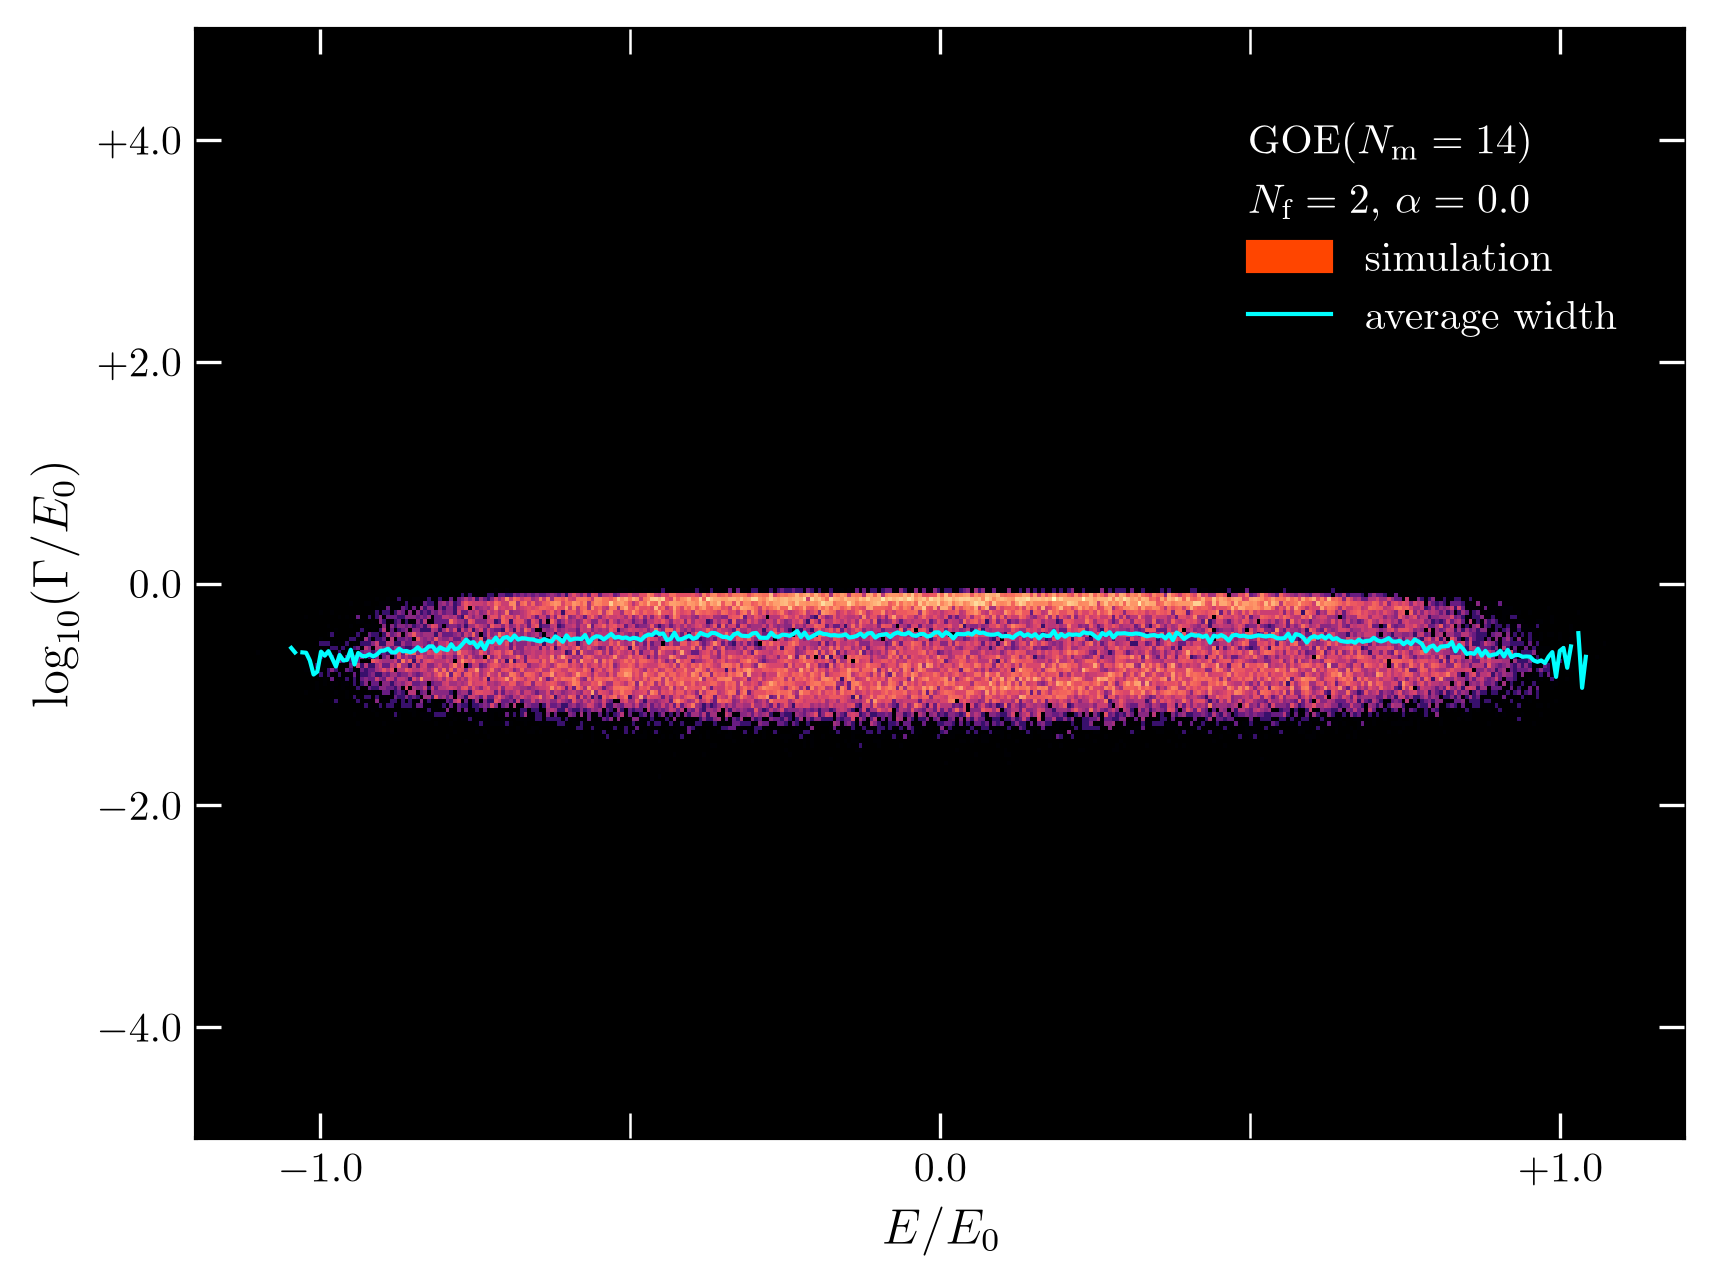
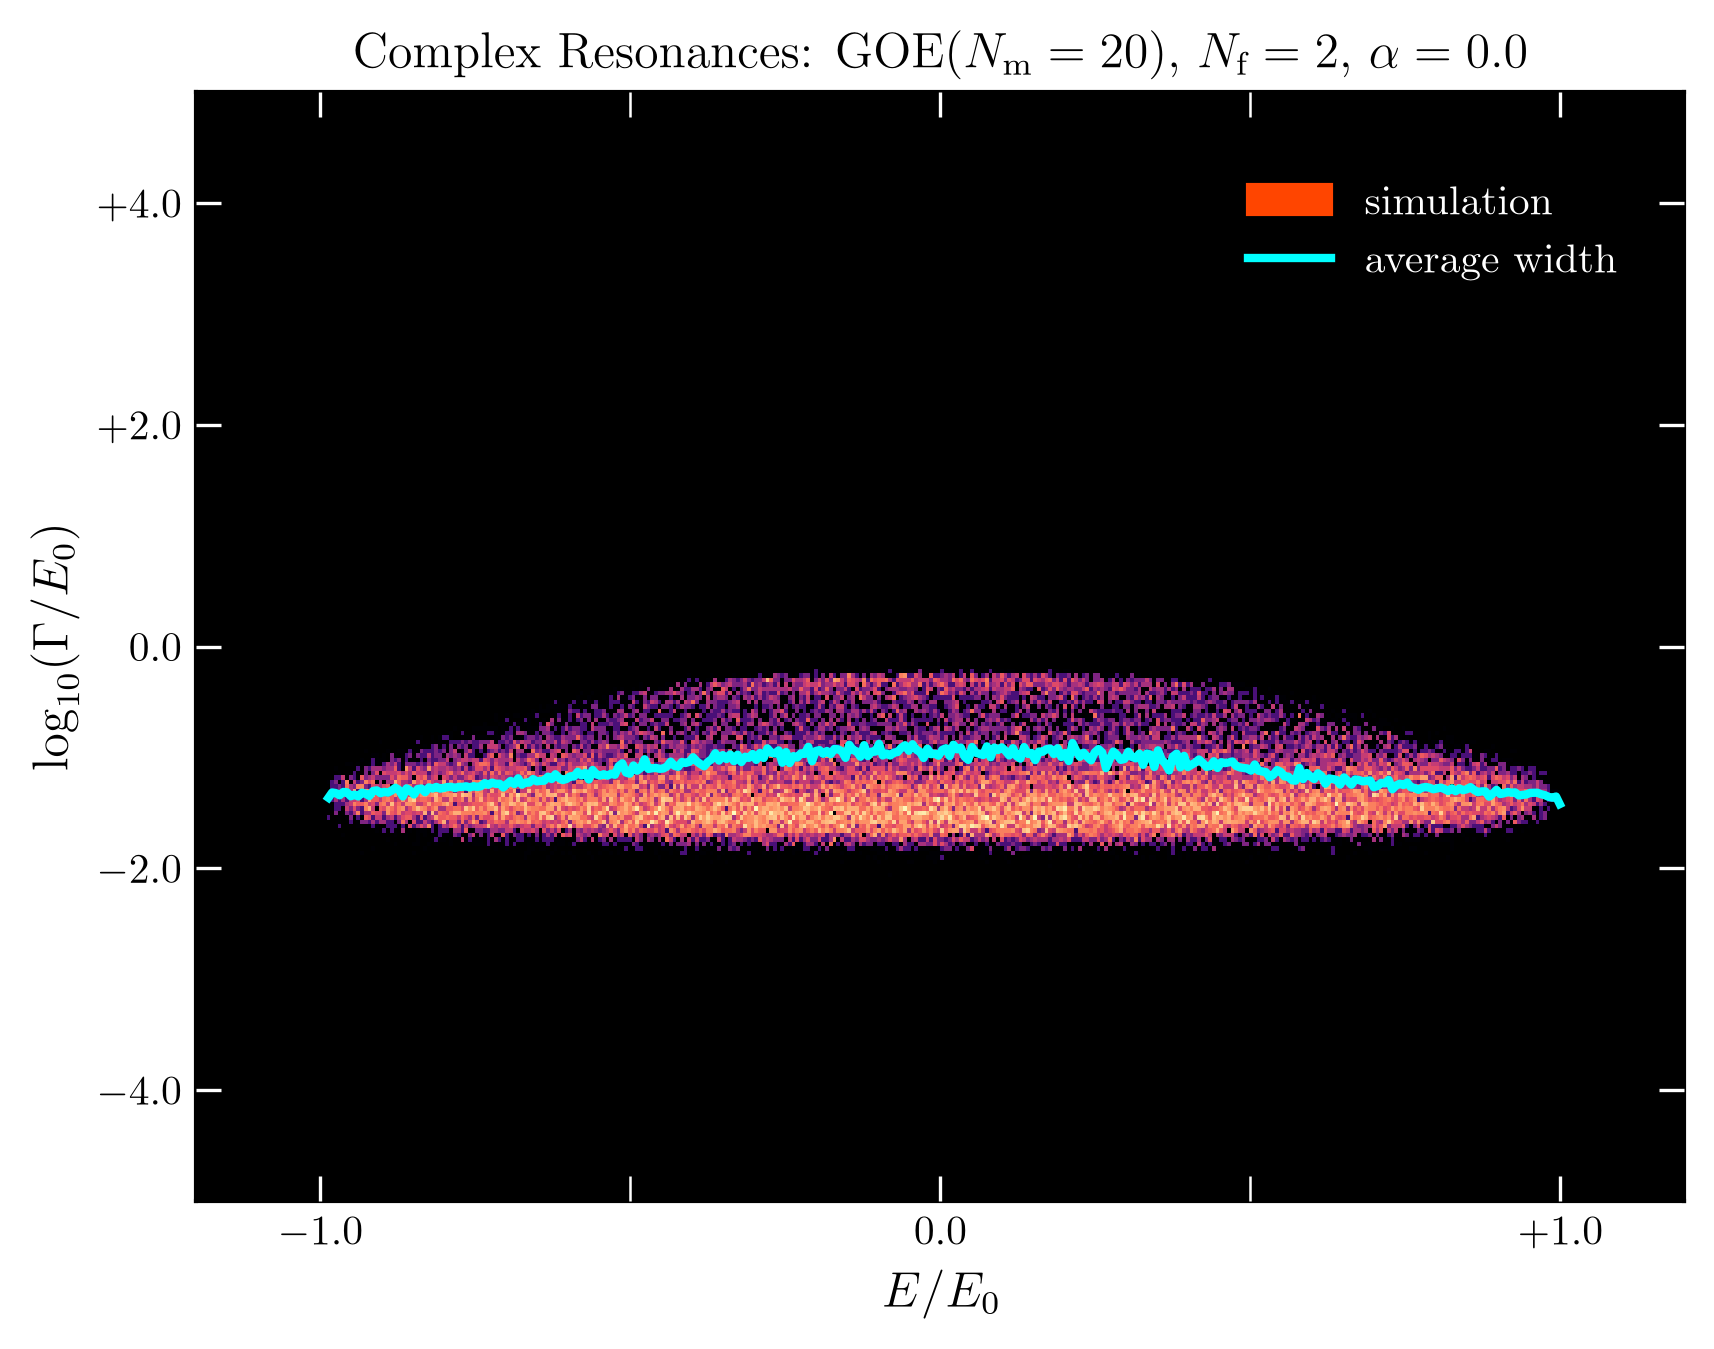
Update README with new simulation parameters and add time-delay spectral form factor overlay image

diff --git a/README.md b/README.md
@@ -149,23 +149,32 @@ describes ideal transmission.
 The following figures were generated by the current simulation and plotting
 code.
 
-![GOE nearest-neighbor spacing histogram after degree-six averaged unfolding, compared with the GOE Wigner surmise](assets/readme/goe-level-spacings.png)
+![GOE nearest-neighbor spacing histogram after degree-four averaged unfolding, compared with the GOE Wigner surmise](assets/readme/goe-level-spacings.png)
 
-*Nearest-neighbor spacings from 1000 GOE realizations with $`N_m=14`$. The
-degree-six averaged unfolding removes the smooth density before comparison
+*Nearest-neighbor spacings from 100 GOE realizations with $`N_m=20`$. The
+degree-four averaged unfolding removes the smooth density before comparison
 with the GOE Wigner surmise.*
 
 ![Two-dimensional histogram of complex GOE scattering poles with the average resonance width](assets/readme/goe-resonance-poles.png)
 
-*The raw complex-energy histogram from 1000 GOE compound realizations with
-$`N_m=14`$, $`N_f=2`$, and equal couplings $`v_a=\sqrt{14}`$. This choice gives
-$`\binom{7}{2}=21`$ open channels. The vertical coordinate is
+*The raw complex-energy histogram from 100 GOE compound realizations with
+$`N_m=20`$, $`N_f=2`$, and equal couplings $`v_a=\sqrt{20}`$. This choice gives
+$`\binom{10}{2}=45`$ open channels. The vertical coordinate is
 $`\log_{10}(\Gamma/E_0)`$; the cyan curve is the energy-resolved average width.*
+
+![Degree-four average-unfolded GOE proper-delay histogram with spectral form factors overlaid](assets/readme/goe-time-delay-sff-overlay.png)
+
+*The degree-four average-unfolded proper-delay distribution at $`E=0`$ from
+100 GOE compound realizations with $`N_m=20`$, $`N_f=2`$, and
+$`v_a=\sqrt{20}`$. The yellow histogram and black Brouwer–Frahm–Beenakker
+(BFB) reference use the left axis. The matching spectral run supplies
+$`K(\upsilon)`$ and $`K_{\mathrm{conn}}(\upsilon)`$ on the right axis; the dotted
+curve is the universal GOE connected form factor.*
 
 ![Energy-dependent transmission coefficient for channel zero of a GOE compound](assets/readme/goe-transmission-coefficient.png)
 
-*The channel-zero transmission coefficient from 1000 GOE compound
-realizations with $`N_m=14`$, $`N_f=2`$, and $`v_a=\sqrt{14}`$ for all 21
+*The channel-zero transmission coefficient from 100 GOE compound
+realizations with $`N_m=20`$, $`N_f=2`$, and $`v_a=\sqrt{20}`$ for all 45
 channels. The calculation averages $`S_{00}(E)`$ before taking the squared
 modulus.*
 
@@ -405,7 +414,7 @@ available from `rmtpy.simulations` and from its family subpackage.
 | `SpectralStatisticsSimulation` | `ensemble`, `realizs` | Density-coefficient histograms, levels, nearest-neighbor spacings, spectral form factors, and connected form factors |
 | `ResonanceStatisticsSimulation` | `compound`, `realizs` | Resonance-density coefficients, centers, widths, spacings, two-dimensional complex-energy densities, and resonance form factors |
 | `PartialWidthsStatisticsSimulation` | `compound`, `width_indices`, `realizs` | Selected partial-width and total-width histograms, each scaled by its observed mean |
-| `TimeDelayStatisticsSimulation` | `compound`, `energies`, `realizs` | Proper-delay histograms for every requested probe energy |
+| `TimeDelayStatisticsSimulation` | `compound`, `energies`, `realizs` | Proper-delay histograms for every requested probe energy, with optional matching spectral-form-factor overlays |
 | `TransmissionCoefficientsSimulation` | `compound`, `channel_indices`, `realizs` | Energy-resolved transmission for selected channels and one all-channel Weisskopf estimate |
 
 Partial-width selectors have two forms. `(state, channel)` selects one partial
@@ -414,7 +423,10 @@ channels. Selectors must be unique and within the state and channel bounds.
 
 Time-delay probe energies are copied into a contiguous, read-only `float64`
 array. The input must be scalar or one-dimensional, finite, nonempty, and free
-of duplicate values.
+of duplicate values. Pass a completed spectral run as
+`spectral_statistics_directory` when plotting or using the run helper to
+overlay its matching raw and unfolded form factors. The ensemble configuration
+and time range must match; its seed and realization count may differ.
 
 Transmission simulations use a fixed 100-point grid spanning 1.5 times the
 ensemble density's plotting range. `channel_indices` chooses the individual
